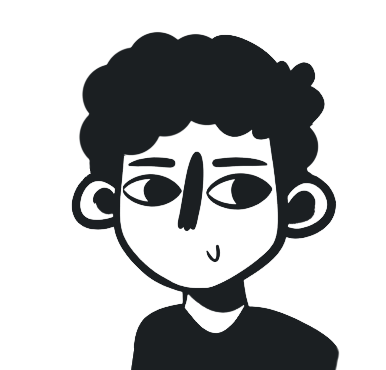
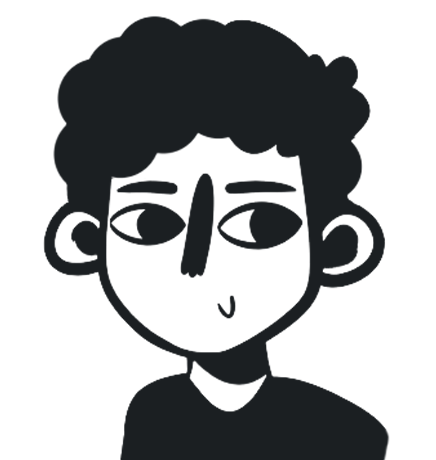
fix: tamanho da imagem

Changed region(s): [[0.0933, 0.0297, 0.9016, 1.0], [0.7772, 0.8622, 0.8705, 0.9216], [0.8705, 0.9216, 0.9016, 1.0]]

diff --git a/public/css/custom.css b/public/css/custom.css
@@ -2,7 +2,7 @@ body {
     font-family: 'Montserrat', sans-serif;
     margin: 0;
     padding: 0;
-    padding-top: 56px;
+
 }
 
 html {
@@ -34,7 +34,7 @@ h1 {
 }
 
 p {
-    font-size: 20px;
+    font-size: 22px;
 }
 
 .container {
@@ -69,12 +69,6 @@ p {
     align-items: center;
 }
 
-.navbar-principal .navbar-brand {
-    color: #1b1f22;
-    text-decoration: none;
-    font-size: 24px;
-    font-weight: bold;
-}
 
 .navbar-principal .navbar-links a {
     color: #1b1f22; 
@@ -100,8 +94,8 @@ p {
     white-space: nowrap; 
     overflow: hidden;
     width: 0;
-    font-size: 70px;
-    animation: typing 3s steps(15) forwards, blink-caret 0.90s infinite;
+    font-size: 110px;
+    animation: typing 3s steps(14) forwards, blink-caret 0.90s infinite;
 }
 
 @keyframes typing {
@@ -109,7 +103,7 @@ p {
         width: 0;
     }
     to {
-        width: 38%;
+        width: 34%;
     }
 }
 
@@ -127,5 +121,6 @@ p {
     position: absolute;
     bottom: 0;
     right: 0;
-    margin-bottom: 0px;
+    right: 11%;
+    margin-bottom: -15px;
 }

diff --git a/resources/views/layouts/main.blade.php b/resources/views/layouts/main.blade.php
@@ -25,9 +25,9 @@
 <body>
 
 <div class="navbar-principal">
-    <div class="container">
+    <div class="container" style="font-size: 24px;">
         <a class="navbar-brand" href="#">Portifólio</a>
-        <div class="navbar-links">
+        <div class="navbar-links" style="font-size: 24px; font-family: 'Pixelify Sans', sans-serif;">
             <a href="#home">Home</a>
             <a href="#perfil">Perfil</a>
             <a href="#contato">Contato</a>
@@ -43,7 +43,7 @@
         </div>
         <p>Desenvolvedor Full-Stack</p>
     </div>
-    <img src="/leoweb/leoweb/resources/img/mini-leo.png" alt="Imagem no canto inferior direito" class="imagem-inferior-direito">
+    <img src="https://github.com/LeoReisSouza/leoweb/blob/main/resources/img/mini-leo.png?raw=true" alt="Imagem no canto inferior direito" class="imagem-inferior-direito">
 </div>
 
 <div class="section escuro"  id="perfil">
@@ -64,7 +64,7 @@
 <script>
     document.addEventListener('DOMContentLoaded', function () {
       const textElement = document.getElementById('typed-text');
-      const text = "Leonardo Reis";
+      const text = "Leo Reis";
 
         textElement.innerText = text;
 
